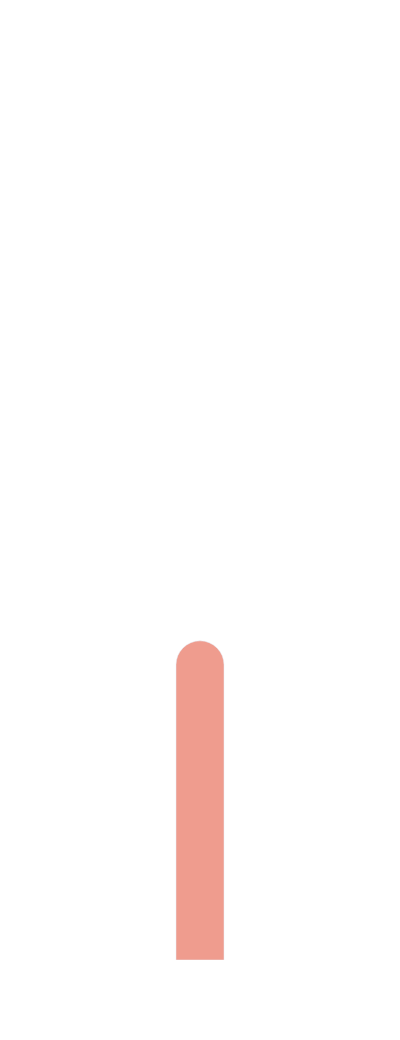
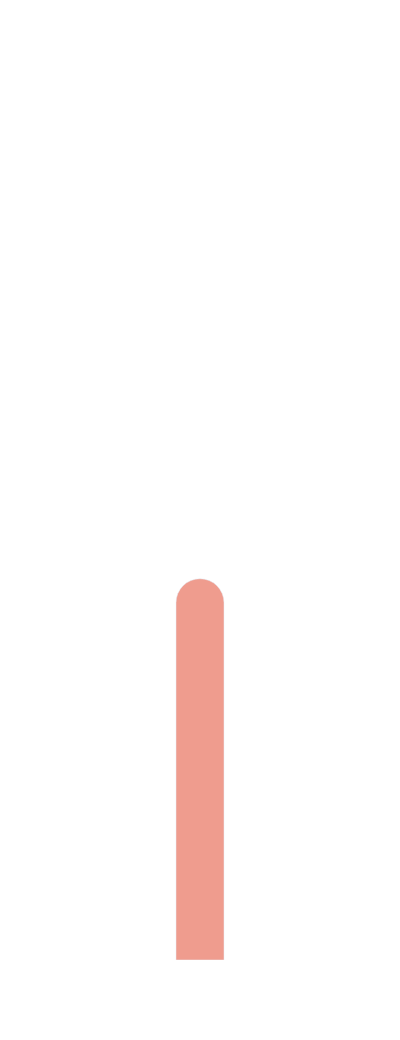
a

Changed region(s): [[0.42, 0.5538, 0.57, 0.6462]]

diff --git a/imagem_final_gerador.py b/imagem_final_gerador.py
@@ -80,12 +80,39 @@ media = Image.open(path_redimensionada)
 
 coordx = -75
 coordy = gerando_grafico_base.resol*342
-
+print(gerando_grafico_base.media_turma)
+#if gerando_grafico_base.media_turma 
 # Criando a barra da média da turma
-base.paste(backside_media, (coordx, 290),backside_media)  # ajuste a posição conforme necessário
-base.paste(backside_media_invertido, (100, 1524-backside_media_invertido.height-180),backside_media_invertido)  # ajuste a posição conforme necessário
-base.paste(media, (coordx, coordy),media)  # ajuste a posição conforme necessário
-base.paste(media_invertida, (100, 1524-media_invertida.height-180),media_invertida)  # ajuste a posição conforme necessário
+if 11 < gerando_grafico_base.media_turma <= 13:
+    base.paste(backside_media, (coordx, 290),backside_media)  # ajuste a posição conforme necessário
+    base.paste(backside_media_invertido, (100, 1524-backside_media_invertido.height-180),backside_media_invertido)  # ajuste a posição conforme necessário
+    base.paste(media, (coordx+50, coordy-52+10),media)  # ajuste a posição conforme necessário
+    base.paste(media_invertida, (100, 1524-media_invertida.height-180),media_invertida)  # ajuste a posição conforme necessário
+elif 10 < gerando_grafico_base.media_turma <= 11:
+    base.paste(backside_media, (coordx, 290),backside_media)  # ajuste a posição conforme necessário
+    base.paste(backside_media_invertido, (100, 1524-backside_media_invertido.height-180),backside_media_invertido)  # ajuste a posição conforme necessário
+    base.paste(media, (coordx+50, coordy-52+20),media)  # ajuste a posição conforme necessário
+    base.paste(media_invertida, (100, 1524-media_invertida.height-180),media_invertida)  # ajuste a posição conforme necessário
+elif 8< gerando_grafico_base.media_turma <= 10:
+    base.paste(backside_media, (coordx, 290),backside_media)  # ajuste a posição conforme necessário
+    base.paste(backside_media_invertido, (100, 1524-backside_media_invertido.height-180),backside_media_invertido)  # ajuste a posição conforme necessário
+    base.paste(media, (coordx+50, coordy-52+30),media)  # ajuste a posição conforme necessário
+    base.paste(media_invertida, (100, 1524-media_invertida.height-180),media_invertida)  # ajuste a posição conforme necessário
+elif 6 < gerando_grafico_base.media_turma <= 8:
+    base.paste(backside_media, (coordx, 290),backside_media)  # ajuste a posição conforme necessário
+    base.paste(backside_media_invertido, (100, 1524-backside_media_invertido.height-180),backside_media_invertido)  # ajuste a posição conforme necessário
+    base.paste(media, (coordx, coordy-15),media)  # ajuste a posição conforme necessário
+    base.paste(media_invertida, (100, 1524-media_invertida.height-180),media_invertida)  # ajuste a posição conforme necessário
+elif gerando_grafico_base.media_turma <= 6:
+    base.paste(backside_media, (coordx, 290),backside_media)  # ajuste a posição conforme necessário
+    base.paste(backside_media_invertido, (100, 1524-backside_media_invertido.height-180),backside_media_invertido)  # ajuste a posição conforme necessário
+    base.paste(media, (coordx, coordy),media)  # ajuste a posição conforme necessário
+    base.paste(media_invertida, (100, 1524-media_invertida.height-180),media_invertida)  # ajuste a posição conforme necessário
+else:
+    base.paste(backside_media, (coordx, 290),backside_media)  # ajuste a posição conforme necessário
+    base.paste(backside_media_invertido, (100, 1524-backside_media_invertido.height-180),backside_media_invertido)  # ajuste a posição conforme necessário
+    base.paste(media, (coordx+50, coordy-52),media)  # ajuste a posição conforme necessário
+    base.paste(media_invertida, (100, 1524-media_invertida.height-180),media_invertida)  # ajuste a posição conforme necessário
 
 #Criando a barra dos dias
 coordx= 200

diff --git a/gerando_grafico_base.py b/gerando_grafico_base.py
@@ -45,7 +45,7 @@ for y in y_data:
       cores.append('#56d19f')
     else:
       cores.append('#62b3ef')  # Cor padrão para outros valores
-
+fonte_ttf_externa = "/home/victor/Documents/TREZENTOS/Poppins-Regular.ttf"
 # Criar o gráfico de barras
 fig = go.Figure(data=go.Bar(x=x_data, y=y_data, marker=dict(color=cores, cornerradius=30),width=0.65))
 
@@ -71,7 +71,8 @@ fig.update_layout(
     margin=dict(l=410*resol,r=185*resol, b=92*2*resol,t=392*resol), #l=410/2,r=185/2, b=92,t=392/2)
     width=largura,  # Definir a largura da figura
     height=altura,  # Definir a altura da figura
-    font=dict(family="Poppins"),
+    font=dict(family=fonte_ttf_externa,
+              color= "#000000"),
 )
 
 # Adicionar as imagens

diff --git a/backside_media_generator.py b/backside_media_generator.py
@@ -5,7 +5,7 @@ import os
 
 fig1 = go.Figure(go.Bar(
     x=['Média da Turma'],
-    y=[14],
+    y=[14.5],
     marker=dict(color="#eaeaea",cornerradius=30),
     width=0.2,
 ))
